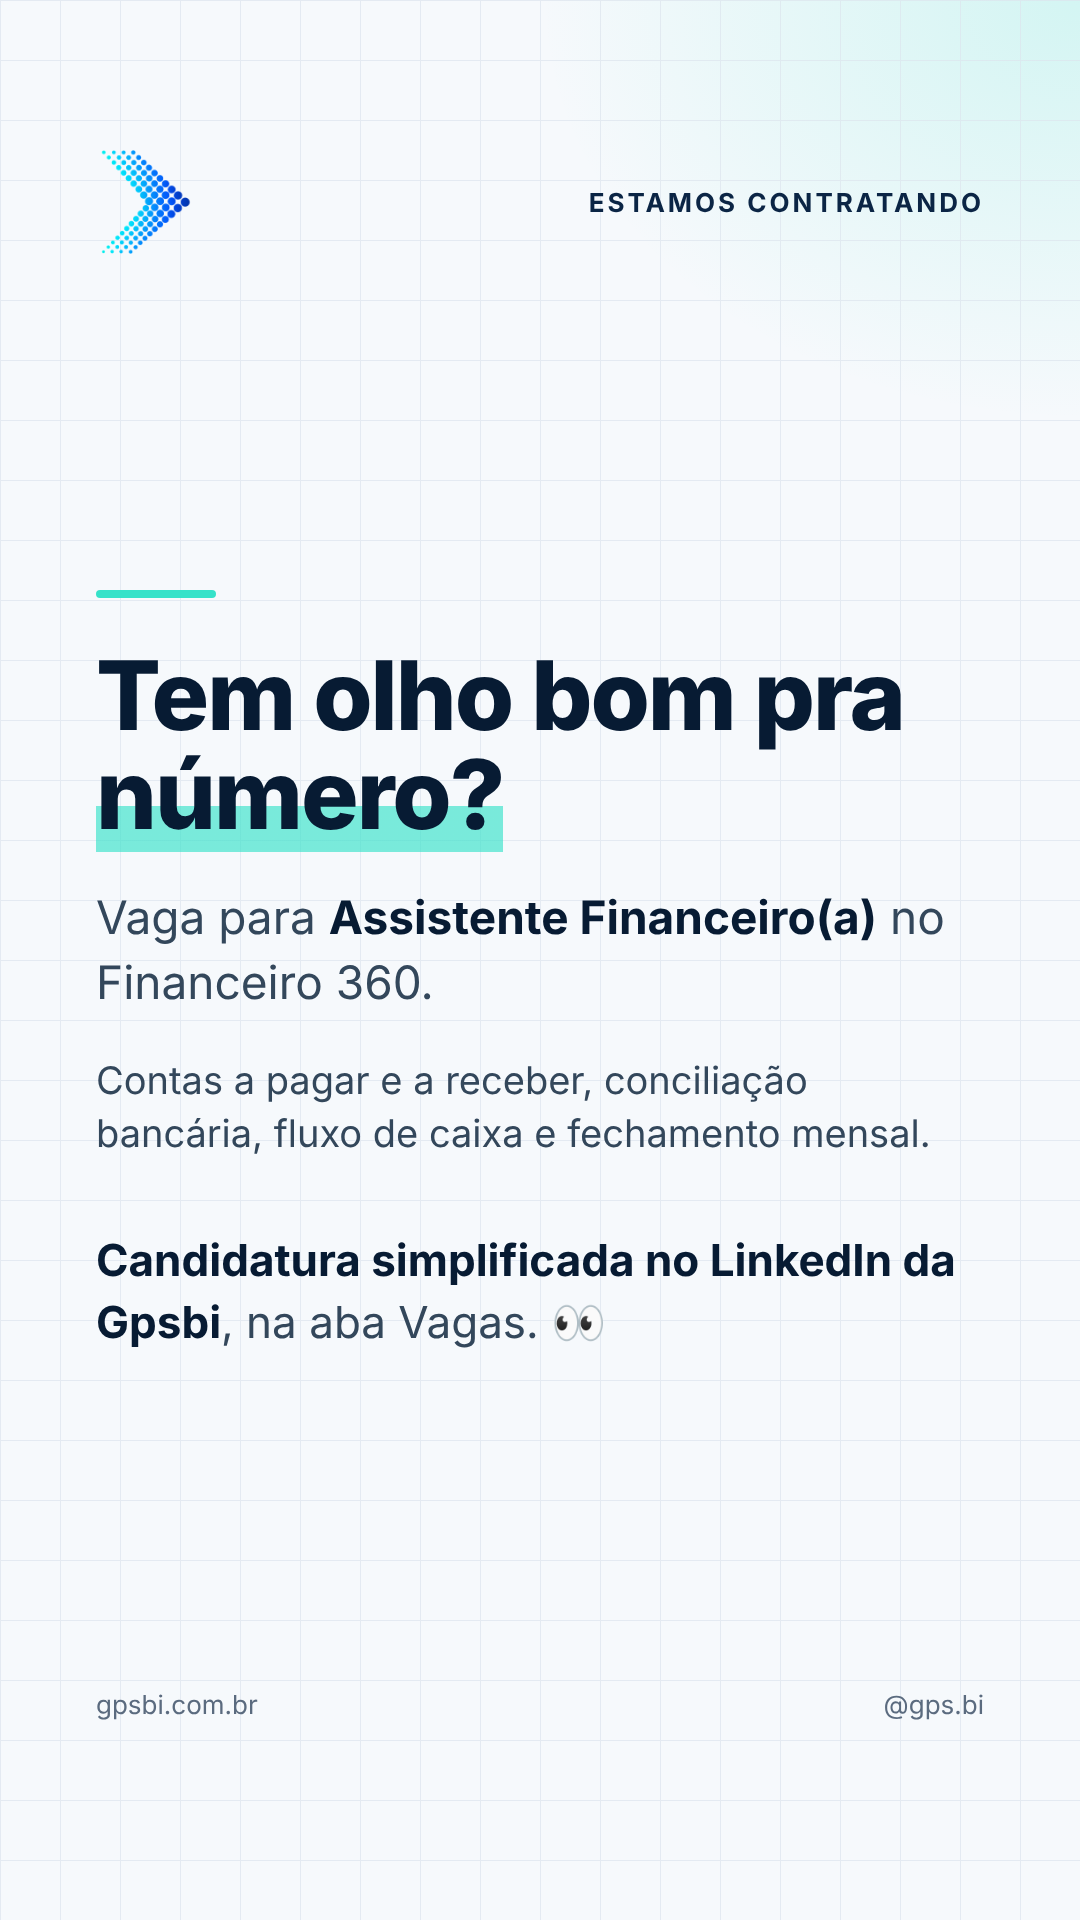
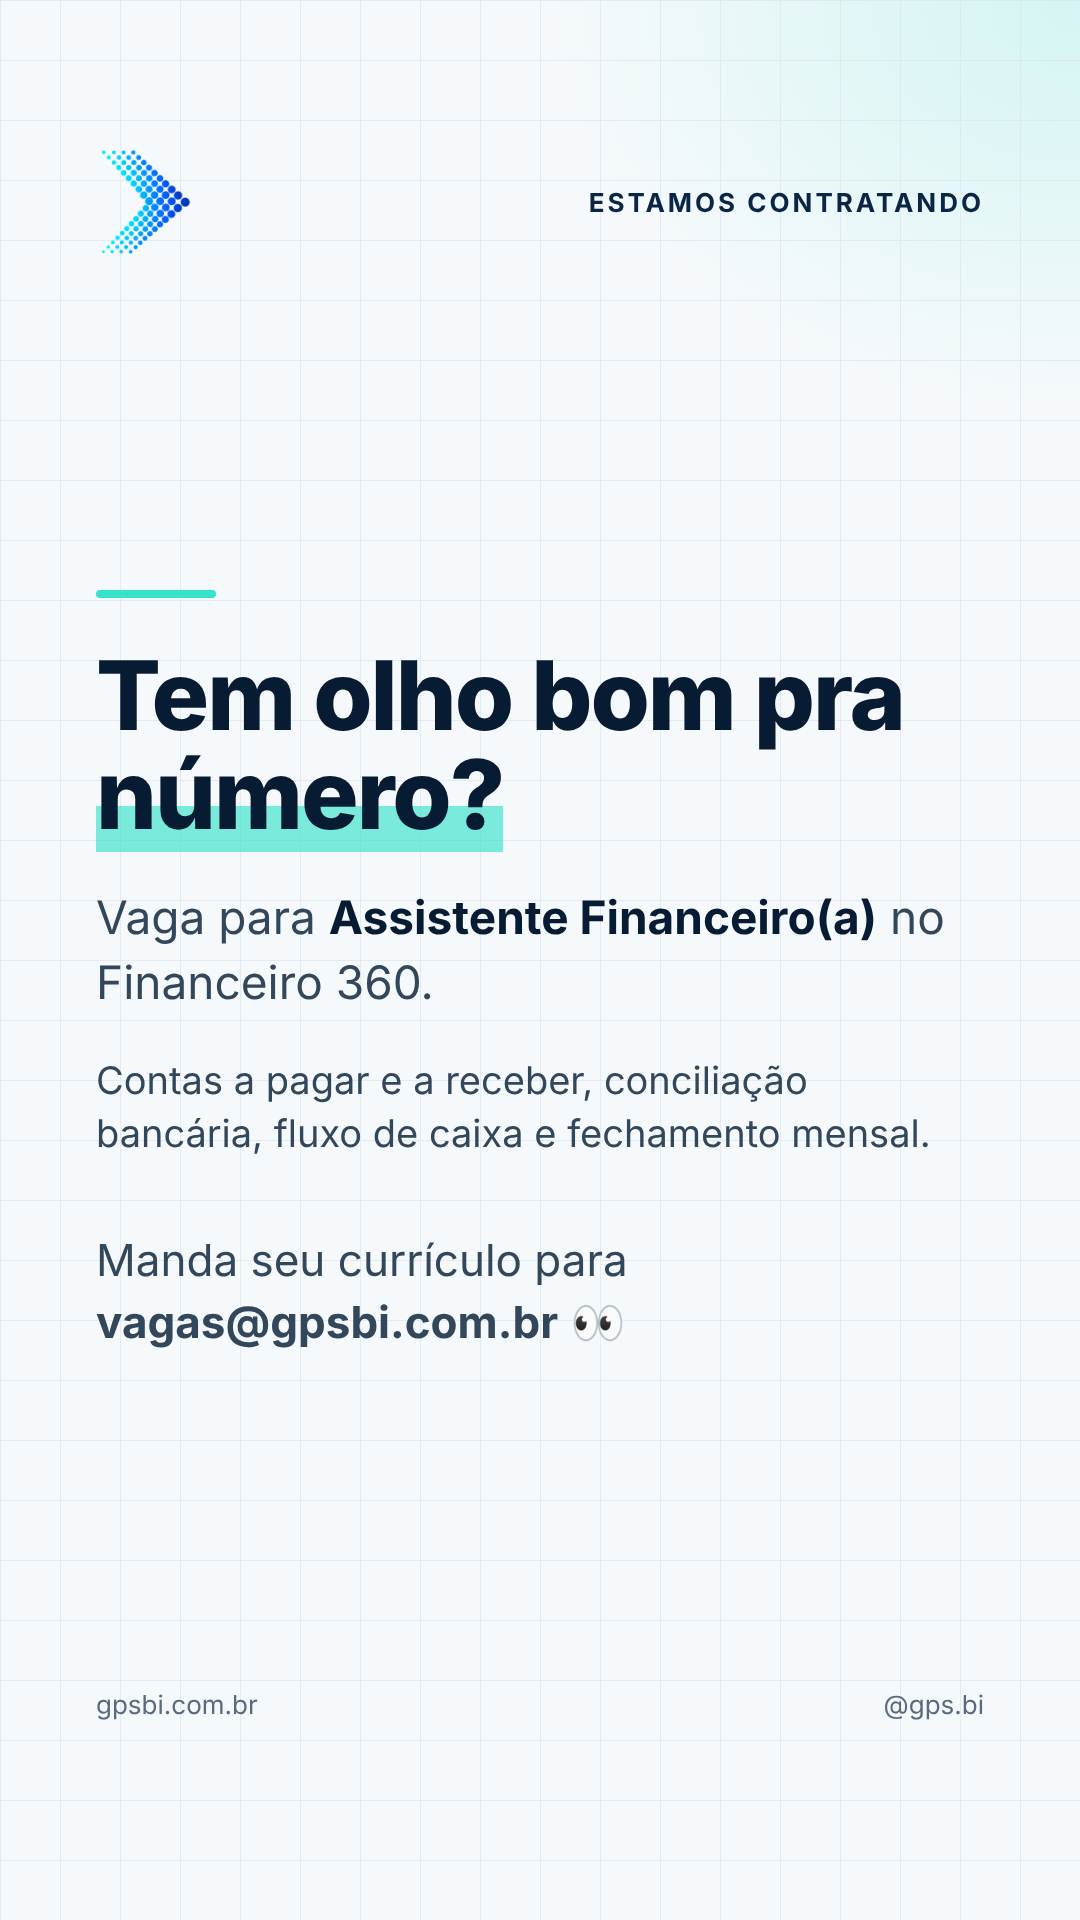
Vagas 09/11: candidatura por vagas@gpsbi.com.br
Claude-Session: https://claude.ai/code/session_01GySkKT6wg6jQUwyDPrTmgu

Changed region(s): [[0.0917, 0.625, 0.8861, 0.7188]]

diff --git a/tools/stories.py b/tools/stories.py
@@ -189,12 +189,12 @@ SEMANAS["vagas-2026-11-09"] = {
     '<div class=bar></div><h1>Bora fazer o fiscal <em>girar?</em></h1>'
     '<p style="font-size:46px">Vaga para <b>Assistente Financeiro(a) e de Faturamento</b> no Financeiro 360 · Apoio&nbsp;Fiscal.</p>'
     '<p>NF-e, NFS-e, contas a receber e conciliação, junto com a contabilidade de cada&nbsp;cliente.</p>'
-    '<p style="font-size:44px;margin-top:70px"><b>Candidatura simplificada no LinkedIn da Gpsbi</b>, na aba&nbsp;Vagas. 👀</p>'),
+    '<p style="font-size:44px;margin-top:70px">Manda seu currículo para<br><b style="color:var(--acc-mail,inherit)">vagas@gpsbi.com.br</b> 👀</p>'),
   "2026-11-09_story-vaga-assistente": ("Estamos contratando",
     '<div class=bar></div><h1>Tem olho bom pra <em>número?</em></h1>'
     '<p style="font-size:46px">Vaga para <b>Assistente Financeiro(a)</b> no Financeiro&nbsp;360.</p>'
     '<p>Contas a pagar e a receber, conciliação bancária, fluxo de caixa e fechamento&nbsp;mensal.</p>'
-    '<p style="font-size:44px;margin-top:70px"><b>Candidatura simplificada no LinkedIn da Gpsbi</b>, na aba&nbsp;Vagas. 👀</p>'),
+    '<p style="font-size:44px;margin-top:70px">Manda seu currículo para<br><b style="color:var(--acc-mail,inherit)">vagas@gpsbi.com.br</b> 👀</p>'),
 }
 
 if __name__ == "__main__":

diff --git a/legendas/2026-11-09_vagas.md b/legendas/2026-11-09_vagas.md
@@ -11,7 +11,9 @@ Contas a pagar e a receber, conciliação bancária, fluxo de caixa e fechamento
 
 Se você é organizado(a), tem olho bom pra número e curte rotina financeira bem feita, vem com a gente.
 
-A candidatura é pelo LinkedIn: procure a Gpsbi e abra a aba Vagas. É candidatura simplificada, rapidinho.
+📩 Manda seu currículo para vagas@gpsbi.com.br com o assunto "Vaga — Faturamento" ou "Vaga — Assistente Financeiro".
+
+🔒 Os dados recebidos serão usados só para este processo seletivo e guardados por até 6 meses. Se quiser que a gente apague antes, é só pedir pelo mesmo e-mail.
 
 Conhece alguém com esse perfil? Marca aqui nos comentários 👇
 
